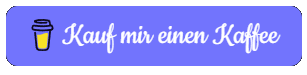
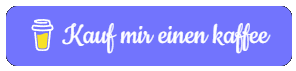
updates

Changed region(s): [[0.0912, 0.2535, 0.9122, 0.7606], [0.0, 0.0563, 1.0, 0.9296]]

diff --git a/languages/it/README.md b/languages/it/README.md
@@ -45,8 +45,8 @@ Sei invitato a utilizzare Un Righello per Windows gratuitamente su tutti i compu
 * * * 
 ## Supporta Un Righello per Windows
 
-Per aiutare a supportare Un Righello per Windows, o semplicemente per dire grazie, sei il benvenuto a "offrirmi un caffè"<br><br>
-[<img alt="offrirmi un caffè" width="200px" src="buymeacoffee-italian.png" />](https://www.buymeacoffee.com/roblatour)
+Per aiutare a supportare Un Righello per Windows, o semplicemente per dire grazie, sei il benvenuto a "Offrirmi un caffè"<br><br>
+[<img alt="Offrirmi un caffè" width="200px" src="buymeacoffee-italian.png" />](https://www.buymeacoffee.com/roblatour)
 * * *
 Copyright © 2006 - 2024 Rob Latour
 * * *

diff --git a/languages/de/README.md b/languages/de/README.md
@@ -48,7 +48,7 @@ Sie können Ein Lineal für Windows gern kostenlos auf so vielen Computern verwe
 ## Unterstützt Ein Lineal Für Windows 
 
 Ein Lineal Für Windows zu unterstützen oder einfach nur Danke zu sagen, können sie mir gerne einen kaffee spendieren.<br><br>
-[<img alt="kauf mir einen Kaffee" width="200px" src="buymeacoffee-german.png" />](https://www.buymeacoffee.com/roblatour)
+[<img alt="Kauf mir einen kaffee" width="200px" src="buymeacoffee-german.png" />](https://www.buymeacoffee.com/roblatour)
 * * *
 Copyright © 2006 - 2024 Rob Latour
 * * *

diff --git a/languages/sv/README.md b/languages/sv/README.md
@@ -46,7 +46,7 @@ Du är varmt välkommen att använda En Linjal för Windows gratis på så mång
 ## Support A Ruler for Windows
 
 För att hjälpa till att stödja En Linjal För Windows, eller för att bara säga tack, är du välkommen att "Köpa mig en kaffe"<br><br>
-[<img alt="Köpa mig en kaffe" width="200px" src="buymeacoffee-sweedish.png" />](https://www.buymeacoffee.com/roblatour)
+[<img alt="Köpa mig en kaffe" width="200px" src="buymeacoffee-swedish.png" />](https://www.buymeacoffee.com/roblatour)
 * * *
 Copyright © 2006 - 2024 Rob Latour
 * * *
